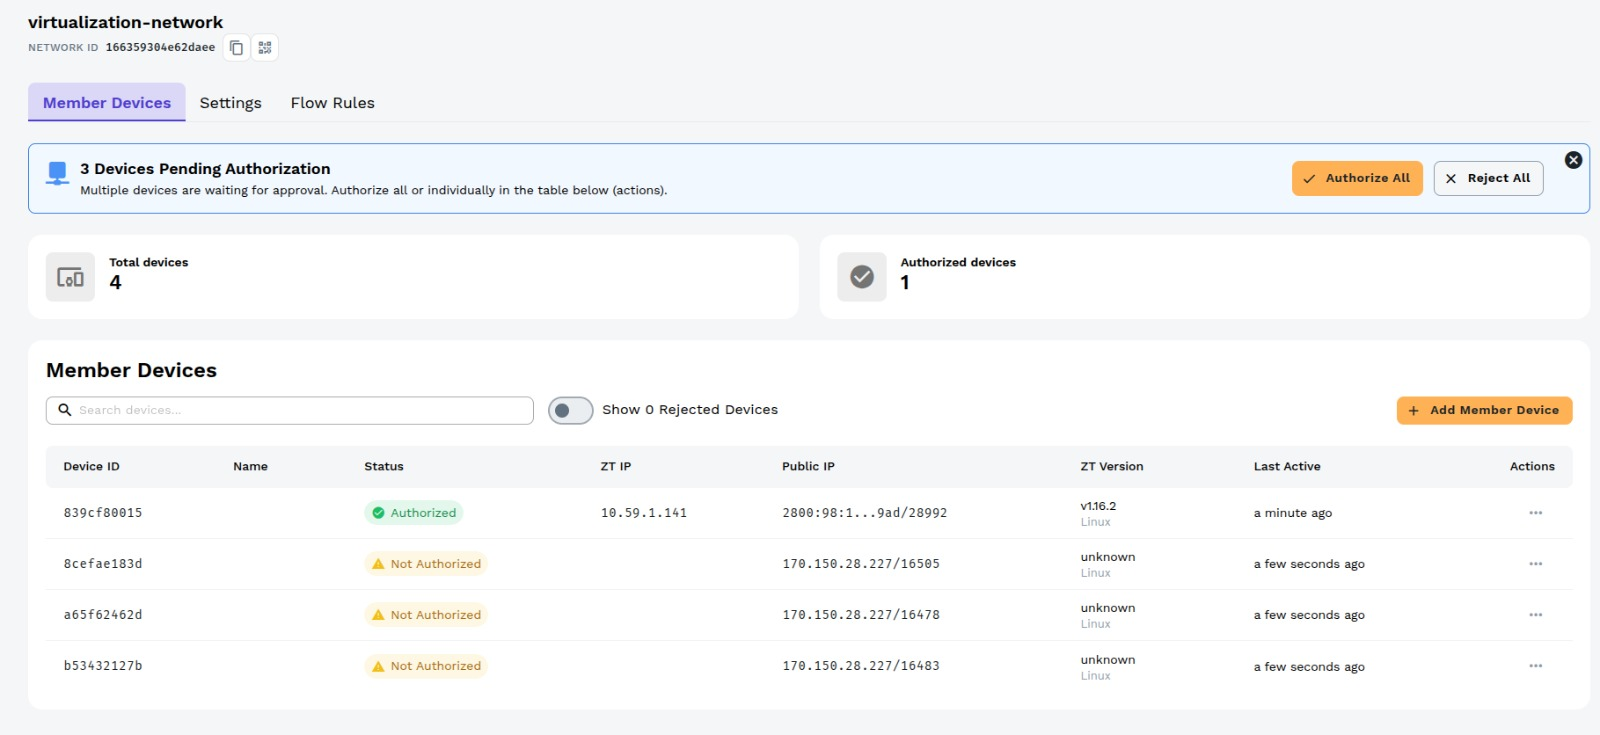
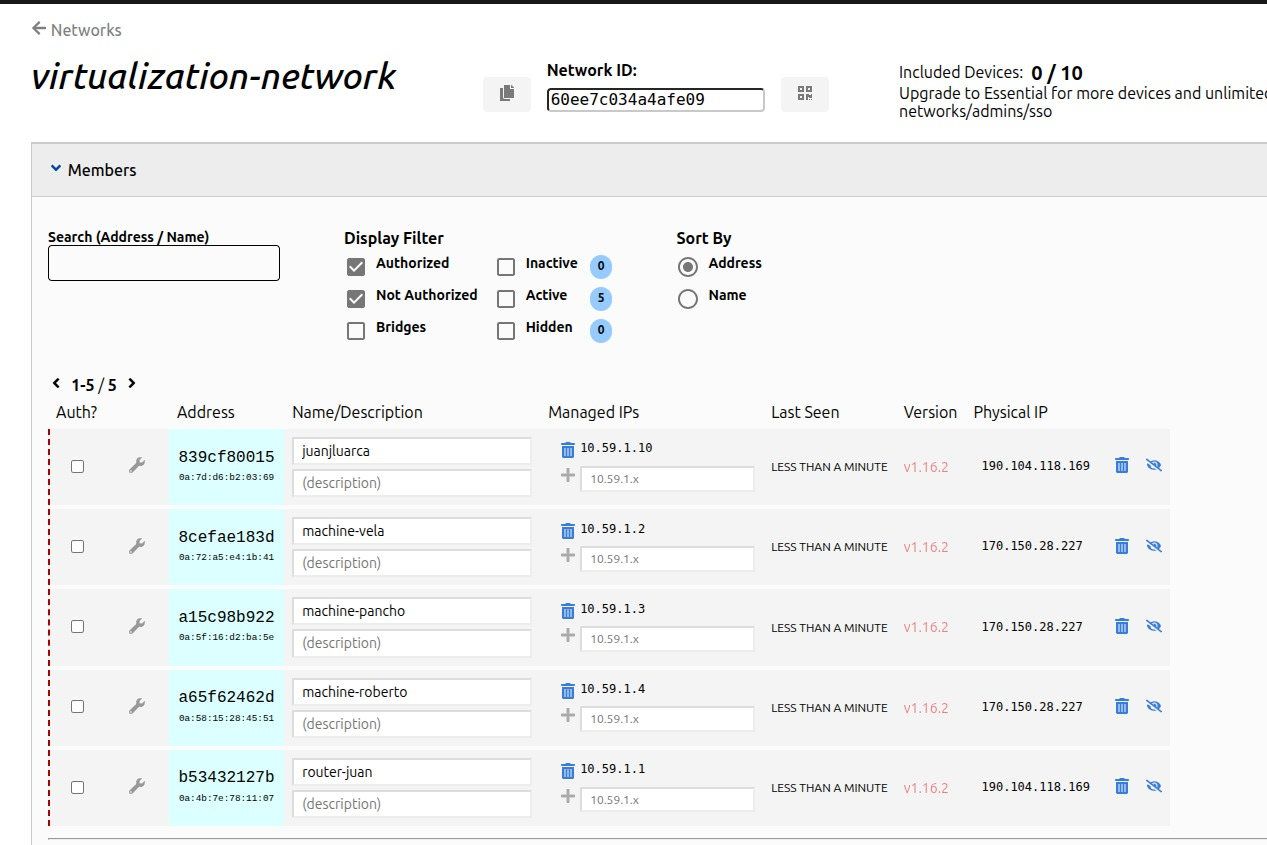
docs: update documentation images and commands used in the practice

diff --git a/README.md b/README.md
@@ -25,10 +25,6 @@ For each of the 4 VMs:
 - Command used to install/join ZeroTier (e.g. `curl -s https://install.zerotier.com | sudo bash`, `zerotier-cli join 60ee7c034a4afe09`)
 - Confirmation that the VM appears as authorized in ZeroTier Central
 
-**VM Juan Luarca (Router)**
-
-![VM Juan Luarca joined](images/image-J-1.jpg)
-
 **VM Carlos Vela**
 
 ![VM V joined](images/image-V-1.jpg)
@@ -86,7 +82,7 @@ For each of the 4 VMs:
 ## 6. Router Configuration
 
 - **IP forwarding:**
-  - Command(s) used to enable IP forwarding (e.g. `sysctl -w net.ipv4.ip_forward=1`, persisted in `/etc/sysctl.conf`)
+  - Command(s) used to enable IP forwarding (e.g. `sysctl -w net.ipv4.ip_forward=1`, persisted in `/etc/sysctl.d/99-zt-router.conf`)
   - Verification output
 
   ![IP forwarding enabled on router VM](images/06-ip-forwarding.jpg)
